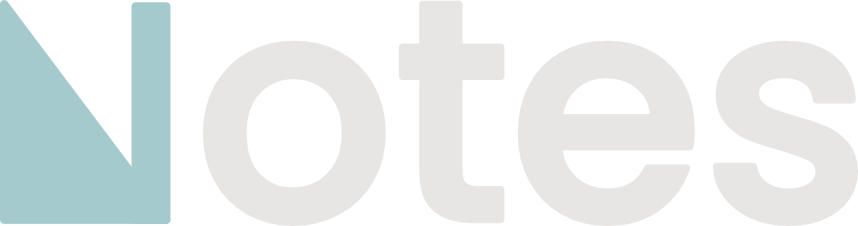
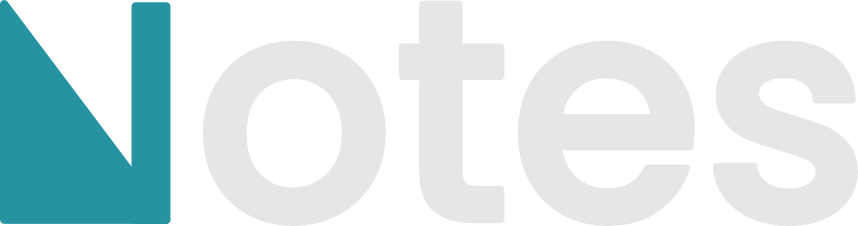
feat(theme): one teal for marks in both themes, accent-as-ink per theme
Tyr's ask: the tick box the same colour in Light and Dark. A mark only has
to clear the ground (3:1), so ACCENT.primary is now MARK = #2593A0 in both
themes (3.7:1 on white, 4.9:1 on the dark sheet): checkbox, bullet dot,
quote bar, drop markers, focus rings, selection band, switches, buttons, the
wordmark's N. Accent as ink cannot be one colour (nothing passes 4.5:1 on
both grounds), so ACCENT.text is per theme: #2A737D Light, #5FBFCA Dark;
wikilinks, #tags, search hits, the active toolbar and slash glyph, Settings
labels. ACCENT.onAccent is white in both. LayoutContext hands out both as
accentColor (marks) and accentText. The theme picker and the checkbox tick
take onAccent instead of hand-picked ink.

Dark callout grounds are the colour at 14% over the sheet with the border at
25% (the hand-picked mid-greys read as lit panels on the new ground); the
comment and punctuation syntax colours lose their blue. Both wordmarks are
regenerated with the N in the mark colour; the recolour command in the UI
rule now covers it.

Claude-Session: https://claude.ai/code/session_015pGNNr8QRRERVHp8iqUrEg

Changed region(s): [[0.0, 0.0, 0.2121, 0.9912]]

diff --git a/src/constants/themes.js b/src/constants/themes.js
@@ -1,3 +1,12 @@
+// The one teal (2026-09-14). Marks and fills — the checkbox, the bullet dot, the
+// quote bar, drop markers, focus rings, the selection band, switches, buttons,
+// the wordmark's N — are the same colour in both themes, as Notion's checkbox
+// blue is: a fill only has to clear the ground (3:1), and this one does on
+// white (3.7:1) and on the dark sheet (4.9:1). Accent *as ink* cannot be one
+// colour — nothing passes 4.5:1 on both — so that is `ACCENT.text`, per theme.
+export const MARK = "#2593A0";
+export const ON_MARK = "#FFFFFF"; // 3.7:1 on the mark: a tick, a bold label, never body text
+
 export const NIGHT = {
   name: "night",
   // Neutral grey ramp, no blue cast, small steps between regions (2026-09-14):
@@ -19,8 +28,9 @@ export const NIGHT = {
     muted: "#8D8C8B", // 4.7:1 on the sidebar
   },
   ACCENT: {
-    primary: "#A4CACE",
-    onAccent: "#1C1C1C", // text/icon on an accent fill — dark, since the accent is pale here
+    primary: MARK, // marks and fills: the one teal, shared with DAY
+    text: "#5FBFCA", // accent as ink on the ground: 8.3:1 on the sheet
+    onAccent: ON_MARK,
   },
   SEMANTIC: {
     warning: "#FFC107",
@@ -44,30 +54,32 @@ export const NIGHT = {
   codeBlockBorderFocus: "rgba(255,255,255,0.18)",
   transitionMs: 400,
   callouts: {
-    note: { colour: "#7AA2F7", bg: "#3f4e74", border: "rgba(122,162,247,0.18)" },
-    info: { colour: "#89DDFF", bg: "#446277", border: "rgba(137,221,255,0.18)" },
-    tip: { colour: "#9ECE6A", bg: "#4c5e43", border: "rgba(158,206,106,0.18)" },
-    warning: { colour: "#E0AF68", bg: "#635242", border: "rgba(224,175,104,0.18)" },
-    danger: { colour: "#F7768E", bg: "#6b3d4f", border: "rgba(247,118,142,0.18)" },
-    success: { colour: "#9ECE6A", bg: "#4c5e43", border: "rgba(158,206,106,0.18)" },
-    question: { colour: "#BB9AF7", bg: "#564b74", border: "rgba(187,154,247,0.18)" },
-    quote: { colour: "#9B9EB0", bg: "#4c4c5a", border: "rgba(155,158,176,0.18)" },
-    example: { colour: "#BB9AF7", bg: "#564b74", border: "rgba(187,154,247,0.18)" },
-    bug: { colour: "#F7768E", bg: "#6b3d4f", border: "rgba(247,118,142,0.18)" },
-    abstract: { colour: "#89DDFF", bg: "#446277", border: "rgba(137,221,255,0.18)" },
+    // Grounds are the colour at 14% over the sheet (2026-09-14); the old hand-picked
+    // mid-greys read as lit panels once the sheet stopped being near-black.
+    note: { colour: "#7AA2F7", bg: "#262B37", border: "rgba(122,162,247,0.25)" },
+    info: { colour: "#89DDFF", bg: "#283438", border: "rgba(137,221,255,0.25)" },
+    tip: { colour: "#9ECE6A", bg: "#2B3123", border: "rgba(158,206,106,0.25)" },
+    warning: { colour: "#E0AF68", bg: "#342D23", border: "rgba(224,175,104,0.25)" },
+    danger: { colour: "#F7768E", bg: "#372529", border: "rgba(247,118,142,0.25)" },
+    success: { colour: "#9ECE6A", bg: "#2B3123", border: "rgba(158,206,106,0.25)" },
+    question: { colour: "#BB9AF7", bg: "#2F2A37", border: "rgba(187,154,247,0.25)" },
+    quote: { colour: "#ACABAA", bg: "#2D2D2C", border: "rgba(172,171,170,0.25)" },
+    example: { colour: "#BB9AF7", bg: "#2F2A37", border: "rgba(187,154,247,0.25)" },
+    bug: { colour: "#F7768E", bg: "#372529", border: "rgba(247,118,142,0.25)" },
+    abstract: { colour: "#89DDFF", bg: "#283438", border: "rgba(137,221,255,0.25)" },
   },
   overlay: (a) => `rgba(255,255,255,${a})`,
   // Inline formatting colors
   inlineCode: { bg: "rgba(255,255,255,0.06)", border: "rgba(255,255,255,0.1)" },
   link: { color: "#6ea8d8", underline: "rgba(110,168,216,0.3)", hoverBg: "rgba(110,168,216,0.06)" },
-  wikilink: { color: "#A4CACE", underline: "rgba(164,202,206,0.3)" },
+  wikilink: { color: "#5FBFCA", underline: "rgba(95,191,202,0.3)" },
   wikilinkBroken: {
     color: "rgba(255,255,255,0.4)",
     underline: "rgba(255,255,255,0.2)",
     hoverColor: "rgba(255,255,255,0.6)",
     hoverUnderline: "rgba(255,255,255,0.3)",
   },
-  mark: { bg: "rgba(164, 202, 206, 0.35)" },
+  mark: { bg: "rgba(37, 147, 160, 0.4)" },
   calloutIconHover: "rgba(255,255,255,0.06)",
   frontmatter: "rgba(255,255,255,0.02)",
   codeCopy: {
@@ -87,8 +99,8 @@ export const NIGHT = {
   /** Lifted-while-dragging objects (block ghost, sidebar pill, drag tooltip). */
   dragShadow: "0 8px 24px rgba(0,0,0,0.45), 0 2px 6px rgba(0,0,0,0.3)",
   syntax: {
-    comment: "#636980",
-    punctuation: "#9B9EB0",
+    comment: "#808080",
+    punctuation: "#ACABAA",
     property: "#FF9E64",
     string: "#9ECE6A",
     operator: "#89DDFF",
@@ -121,8 +133,9 @@ export const DAY = {
     muted: "#7A736C", // 4.6:1
   },
   ACCENT: {
-    primary: "#2A737D", // 5.3:1 on ground, 4.6:1 on selected row
-    onAccent: "#FFFFFF", // text/icon on an accent fill (5.5:1)
+    primary: MARK, // marks and fills: the one teal, shared with NIGHT
+    text: "#2A737D", // accent as ink on the ground: 5.5:1 on the sheet, 4.6:1 on a selected row
+    onAccent: ON_MARK,
   },
   SEMANTIC: {
     warning: "#D4920A",
@@ -169,7 +182,7 @@ export const DAY = {
     hoverColor: "rgba(0,0,0,0.5)",
     hoverUnderline: "rgba(0,0,0,0.25)",
   },
-  mark: { bg: "rgba(42, 115, 125, 0.18)" },
+  mark: { bg: "rgba(37, 147, 160, 0.22)" },
   calloutIconHover: "rgba(0,0,0,0.06)",
   frontmatter: "rgba(0,0,0,0.02)",
   codeCopy: {

diff --git a/src/components/settings/UpdatesTab.tsx b/src/components/settings/UpdatesTab.tsx
@@ -21,7 +21,7 @@ interface UpdateStatus {
 
 interface UpdatesTheme {
   TEXT: { primary: string; secondary: string; muted: string };
-  ACCENT: { primary: string; onAccent: string };
+  ACCENT: { primary: string; text: string; onAccent: string };
   SEMANTIC: { error: string };
   overlay: (alpha: number) => string;
 }
@@ -118,7 +118,7 @@ export default function UpdatesTab({ isDesktop, SectionHeader }: UpdatesTabProps
           <span style={{ fontSize: fontSize.sm, color: TEXT.muted }}>Up to date</span>
         )}
         {updateStatus?.state === "available" && (
-          <span style={{ fontSize: fontSize.sm, color: ACCENT.primary }}>
+          <span style={{ fontSize: fontSize.sm, color: ACCENT.text }}>
             Update available: v{updateStatus.version}
           </span>
         )}
@@ -156,7 +156,7 @@ export default function UpdatesTab({ isDesktop, SectionHeader }: UpdatesTabProps
               justifyContent: "space-between",
             }}
           >
-            <span style={{ fontSize: fontSize.sm, color: ACCENT.primary }}>
+            <span style={{ fontSize: fontSize.sm, color: ACCENT.text }}>
               v{updateStatus.version} ready to install
             </span>
             <button
@@ -164,7 +164,6 @@ export default function UpdatesTab({ isDesktop, SectionHeader }: UpdatesTabProps
               style={{
                 ...buttonBase,
                 background: accentColor,
-                // Dark's accent is pale; white on it was about 1.7:1.
                 color: ACCENT.onAccent,
                 padding: `${spacing.xs}px ${spacing.md}px`,
                 fontSize: fontSize.sm,

diff --git a/src/components/Sidebar.jsx b/src/components/Sidebar.jsx
@@ -366,8 +366,15 @@ const Sidebar = memo(function Sidebar({
   // Desktop only: the Notes row's Search glyph opens the search palette.
   onOpenSearch,
 }) {
-  const { accentColor, chromeBg, sidebarVisible, sidebarWidth, fullScreen, toggleSidebar } =
-    useLayout();
+  const {
+    accentColor,
+    accentText,
+    chromeBg,
+    sidebarVisible,
+    sidebarWidth,
+    fullScreen,
+    toggleSidebar,
+  } = useLayout();
   // A hidden sidebar keeps its DOM — drag hit-tests and the scroll position
   // survive a collapse — but a zero-width, overflow-hidden panel still hands
   // its buttons to Tab and to a screen reader, and the editor header renders
@@ -1069,7 +1076,7 @@ const Sidebar = memo(function Sidebar({
                             result.title,
                             result.matchStart,
                             result.matchEnd,
-                            accentColor,
+                            accentText,
                           )
                         : result.title}
                     </span>
@@ -1101,7 +1108,7 @@ const Sidebar = memo(function Sidebar({
                         lineHeight: "16px",
                       }}
                     >
-                      {renderSnippet(result.snippet, accentColor)}
+                      {renderSnippet(result.snippet, accentText)}
                     </div>
                   ) : result.matchIn === "title" ? (
                     <div

diff --git a/src/components/SearchPalette.tsx b/src/components/SearchPalette.tsx
@@ -45,7 +45,7 @@ export default function SearchPalette({ onOpenResult, onClose }: SearchPalettePr
     theme: Record<string, Record<string, string>> & { modalShadow: string };
   };
   const { BG, TEXT, ACCENT } = theme;
-  const { accentColor } = useLayout() as { accentColor: string };
+  const { accentText } = useLayout() as { accentText: string };
   const { noteData } = useNoteData() as { noteData: Record<string, { title: string }> };
   const {
     search,
@@ -255,7 +255,7 @@ export default function SearchPalette({ onOpenResult, onClose }: SearchPalettePr
                       }}
                     >
                       {r.matchIn === "title"
-                        ? renderHighlightedTitle(r.title, r.matchStart, r.matchEnd, accentColor)
+                        ? renderHighlightedTitle(r.title, r.matchStart, r.matchEnd, accentText)
                         : r.title}
                     </span>
                     {folderPath && (
@@ -286,7 +286,7 @@ export default function SearchPalette({ onOpenResult, onClose }: SearchPalettePr
                         whiteSpace: "nowrap",
                       }}
                     >
-                      {renderSnippet(r.snippet, accentColor)}
+                      {renderSnippet(r.snippet, accentText)}
                     </span>
                   )}
                 </button>

diff --git a/src/components/settings/AppearanceTab.jsx b/src/components/settings/AppearanceTab.jsx
@@ -6,8 +6,8 @@ import { fontSize, fontWeight } from "../../tokens/typography";
 
 export default function AppearanceTab({ SectionHeader }) {
   const { accentColor } = useLayout();
-  const { theme, themeMode, setThemeMode, isDark } = useTheme();
-  const { BG, TEXT } = theme;
+  const { theme, themeMode, setThemeMode } = useTheme();
+  const { BG, TEXT, ACCENT } = theme;
 
   return (
     <div>
@@ -48,7 +48,7 @@ export default function AppearanceTab({ SectionHeader }) {
               onClick={() => setThemeMode(mode)}
               style={{
                 background: themeMode === mode ? accentColor : "transparent",
-                color: themeMode === mode ? (isDark ? BG.darkest : "#fff") : TEXT.muted,
+                color: themeMode === mode ? ACCENT.onAccent : TEXT.muted,
                 border: "none",
                 padding: `${spacing.xs}px ${spacing.md}px`,
                 fontSize: fontSize.sm,

diff --git a/src/context/LayoutContext.jsx b/src/context/LayoutContext.jsx
@@ -25,7 +25,8 @@ export function LayoutProvider({ children }) {
   const sidebarMaxWidth = sidebarWidthFor(SIDEBAR_MAX_W, windowWidth);
   const chromeBg = theme.BG.dark;
   const editorBg = theme.BG.editor;
-  const accentColor = theme.ACCENT.primary;
+  const accentColor = theme.ACCENT.primary; // marks and fills
+  const accentText = theme.ACCENT.text; // accent as ink (search hits)
 
   /**
    * macOS full screen: the traffic lights are gone, so the chrome that clears
@@ -74,6 +75,7 @@ export function LayoutProvider({ children }) {
       chromeBg,
       editorBg,
       accentColor,
+      accentText,
       sidebarHandles,
       isDragging,
       startDrag,
@@ -88,6 +90,7 @@ export function LayoutProvider({ children }) {
       chromeBg,
       editorBg,
       accentColor,
+      accentText,
       isDragging,
       startDrag,
     ],

diff --git a/src/components/GlobalStyles.jsx b/src/components/GlobalStyles.jsx
@@ -198,7 +198,7 @@ export default function GlobalStyles() {
           padding: 0 2px;
         }
         [data-block-id] .inline-tag {
-          color: ${theme.ACCENT.primary};
+          color: ${theme.ACCENT.text};
           opacity: 0.7;
           font-size: 0.92em;
           cursor: pointer;
@@ -414,7 +414,7 @@ export default function GlobalStyles() {
         }
         .code-ctx-danger { color: ${theme.SEMANTIC.error}; }
         .code-ctx-danger:hover { background: ${theme.SEMANTIC.error}18; }
-        .code-ctx-active { color: ${theme.ACCENT.primary}; }
+        .code-ctx-active { color: ${theme.ACCENT.text}; }
         .code-ctx-sep {
           height: 1px;
           background: ${theme.BG.divider};

diff --git a/src/components/settings/SettingsModal.jsx b/src/components/settings/SettingsModal.jsx
@@ -56,7 +56,7 @@ export default function SettingsModal({ isMobile, isDesktop, notesDir, changeNot
         style={{
           fontSize: fontSize.xs,
           fontWeight: fontWeight.semibold,
-          color: ACCENT.primary,
+          color: ACCENT.text,
           textTransform: "uppercase",
           letterSpacing: 1.5,
           whiteSpace: "nowrap",
@@ -88,7 +88,7 @@ export default function SettingsModal({ isMobile, isDesktop, notesDir, changeNot
       style={{
         fontSize: 11,
         fontWeight: fontWeight.semibold,
-        color: ACCENT.primary,
+        color: ACCENT.text,
         textTransform: "uppercase",
         letterSpacing: 1.2,
         padding: `${spacing.xl}px 0 ${spacing.sm}px`,

diff --git a/src/components/blocks/FileBlock.jsx b/src/components/blocks/FileBlock.jsx
@@ -26,6 +26,7 @@ function formatFriendlyFilename(filename) {
 }
 
 function FileBlock({ src, filename, size, onDelete, onOpen, onShowInFolder, accentColor }) {
+  const { theme: fileTheme } = useTheme();
   const { theme } = useTheme();
   const { BG, TEXT } = theme;
   const [hovered, setHovered] = useState(false);
@@ -110,7 +111,7 @@ function FileBlock({ src, filename, size, onDelete, onOpen, onShowInFolder, acce
               style={{
                 fontSize: 10,
                 fontWeight: 600,
-                color: accentColor,
+                color: fileTheme.ACCENT.text,
                 background: `${accentColor}18`,
                 padding: "1px 6px",
                 borderRadius: 3,

diff --git a/src/components/EditableBlock.jsx b/src/components/EditableBlock.jsx
@@ -89,7 +89,7 @@ const EditableBlock = memo(
     onNavigateToNote,
   }) {
     const { theme } = useTheme();
-    const { BG, TEXT } = theme;
+    const { TEXT, ACCENT } = theme;
     const elRef = useRef(null);
 
     // Paint the text on mount, on a sync-generation bump (undo, redo, a paste,
@@ -527,7 +527,7 @@ const EditableBlock = memo(
             >
               <path
                 d="M2 5L4.2 7.2L8 3"
-                stroke={BG.darkest}
+                stroke={ACCENT.onAccent}
                 strokeWidth="1.8"
                 strokeLinecap="round"
                 strokeLinejoin="round"

diff --git a/src/components/FloatingToolbar.jsx b/src/components/FloatingToolbar.jsx
@@ -124,7 +124,7 @@ function ToolbarBtn({ format, active, onClick, onRest, onLeave, tip, tipBelow })
         // the fill is for hover alone, so a pressed button still lifts on hover
         // and the accent stays ink, never a surface (judged 2026-09-10).
         background: hovered ? theme.overlay(0.08) : "transparent",
-        color: active ? ACCENT.primary : TEXT.primary,
+        color: active ? ACCENT.text : TEXT.primary,
         transition: "background 0.1s, color 0.1s",
       }}
     >

diff --git a/src/components/WikilinkMenu.jsx b/src/components/WikilinkMenu.jsx
@@ -86,7 +86,7 @@ export default function WikilinkMenu({ position, filter, noteData, onSelect, onD
     >
       {filtered.length === 0 ? (
         <div style={{ padding: "8px 12px", fontSize: 12, color: TEXT.muted }}>
-          Create note: <strong style={{ color: ACCENT.primary }}>{filter}</strong>
+          Create note: <strong style={{ color: ACCENT.text }}>{filter}</strong>
         </div>
       ) : (
         filtered.slice(0, 10).map((n, i) => (
